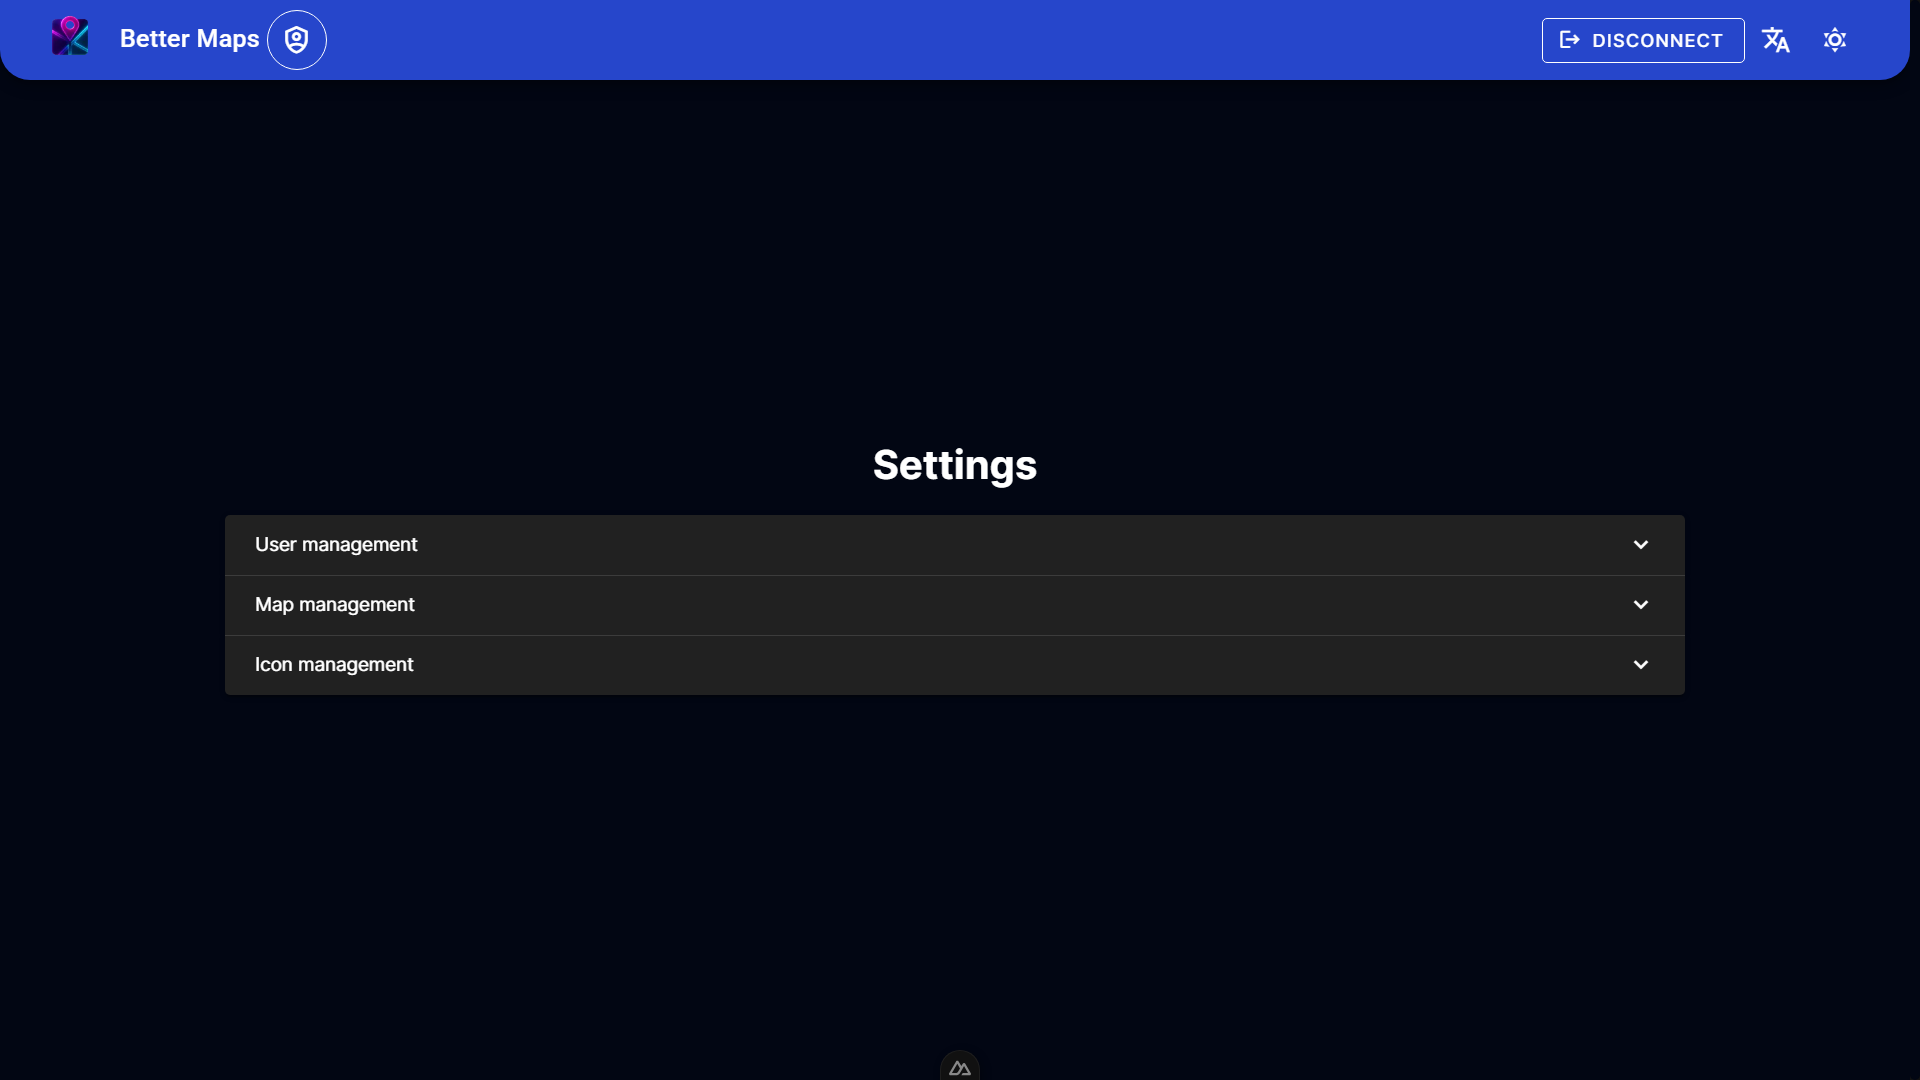
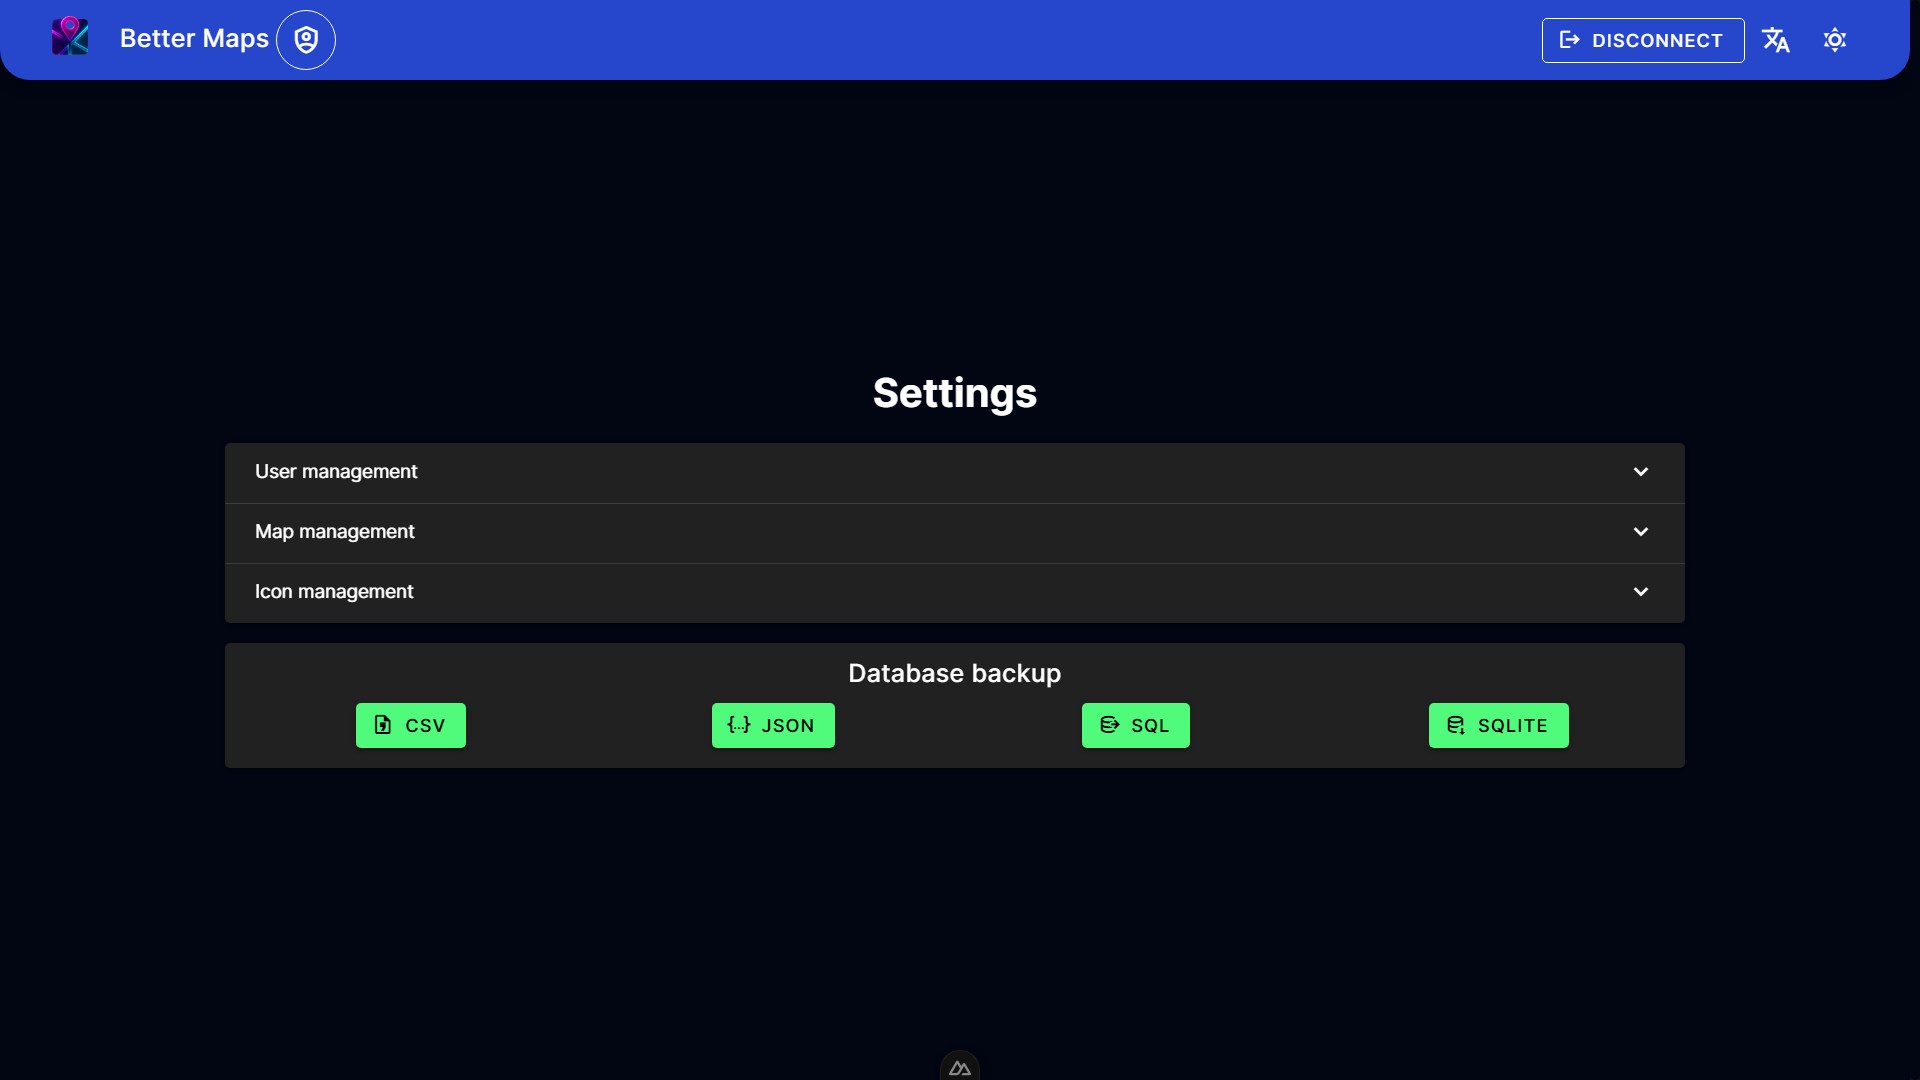
feat(1.4.0): export the db as CSV, JSON, SQL or a raw SQLite file

Changed region(s): [[0.0938, 0.3361, 0.875, 0.7333], [0.0625, 0.0306, 0.1875, 0.0611]]

diff --git a/components/Admin/Settings.vue b/components/Admin/Settings.vue
@@ -2,6 +2,7 @@
   <h1 class="mb-4">
     {{ $t("admin.title") }}
   </h1>
+
   <v-expansion-panels>
     <v-expansion-panel>
       <v-expansion-panel-title>{{ $t("admin.users.title") }}</v-expansion-panel-title>
@@ -442,6 +443,54 @@
     </v-expansion-panel>
   </v-expansion-panels>
 
+  <v-card class="mt-4">
+    <v-card-title>{{ $t('admin.backup.title') }}</v-card-title>
+    <v-card-text>
+      <v-row>
+        <v-col>
+          <v-btn
+            color="success"
+            prepend-icon="mdi-file-delimited-outline"
+            :loading="exporting"
+            @click="downloadBackup('csv')"
+          >
+            {{ $t('admin.backup.export-csv') }}
+          </v-btn>
+        </v-col>
+        <v-col>
+          <v-btn
+            color="success"
+            prepend-icon="mdi-code-json"
+            :loading="exporting"
+            @click="downloadBackup('json')"
+          >
+            {{ $t('admin.backup.export-json') }}
+          </v-btn>
+        </v-col>
+        <v-col>
+          <v-btn
+            color="success"
+            prepend-icon="mdi-database-export-outline"
+            :loading="exporting"
+            @click="downloadBackup('sql')"
+          >
+            {{ $t('admin.backup.export-sql') }}
+          </v-btn>
+        </v-col>
+        <v-col>
+          <v-btn
+            color="success"
+            prepend-icon="mdi-database-arrow-down-outline"
+            :loading="exporting"
+            @click="downloadBackup('sqlite')"
+          >
+            {{ $t('admin.backup.export-sqlite') }}
+          </v-btn>
+        </v-col>
+      </v-row>
+    </v-card-text>
+  </v-card>
+
   <v-dialog
     v-model="showDeleteDialog"
     persistent
@@ -560,6 +609,7 @@ const users = ref<User[]>([])
 const maps = ref<Map[]>([])
 const icons = ref<Icon[]>([])
 const mapUsers = ref<Record<number, { id: number, name: string }[]>>({})
+const exporting = ref(false)
 
 const showDeleteDialog = ref(false)
 const showMapDeleteDialog = ref(false)
@@ -585,7 +635,7 @@ const resetNewUser = () => {
 }
 
 const resetNewMap = () => {
-  const [lat, lng, zoom] = config.public.startingPoint.split(",").map(Number)
+  const [ lat, lng, zoom ] = config.public.startingPoint.split(",").map(Number)
   const resetValue = { name: "", start_lat: lat, start_lng: lng, start_zoom: zoom, country: config.public.country, show_transit: false }
 
   newMap.value = resetValue
@@ -639,11 +689,13 @@ const fetchData = async () => {
   } else {
     users.value = []
   }
+
   if ("maps" in mapsData.body) {
     maps.value = mapsData.body.maps
   } else {
     maps.value = []
   }
+
   if ("icons" in iconsData.body) {
     icons.value = iconsData.body.icons
   } else {
@@ -733,17 +785,20 @@ const triggerShowMapDeleteDialog = (map: Map) => {
 }
 
 const validateIcon = async (iconName: string, iconId?: number) => {
-  const okBasic = iconName.startsWith('mdi-') && iconName.length >= 5
+  const okBasic = iconName.startsWith("mdi-") && iconName.length >= 5
+
   if (!okBasic) {
     if (iconId !== undefined) {
       isValidEditIcons[iconId] = false
     } else {
       isValidNewIcon.value = false
     }
+
     return
   }
 
   let el: HTMLElement | null = null
+
   if (iconId !== undefined) {
     el = editIconRefs[iconId]
   } else {
@@ -760,17 +815,18 @@ const validateIcon = async (iconName: string, iconId?: number) => {
     } else {
       isValidNewIcon.value = false
     }
+
     return
   }
 
   await nextTick()
 
   const content = window
-    .getComputedStyle(el, '::before')
-    .getPropertyValue('content')
-    .replace(/"/g, '')
+    .getComputedStyle(el, "::before")
+    .getPropertyValue("content")
+    .replace(/"/g, "")
 
-  const valid = Boolean(content) && content !== 'none' && content !== 'normal'
+  const valid = Boolean(content) && content !== "none" && content !== "normal"
 
   if (iconId !== undefined) {
     isValidEditIcons[iconId] = valid
@@ -780,7 +836,7 @@ const validateIcon = async (iconName: string, iconId?: number) => {
 }
 
 const updateIcon = async (iconId: number, name: string, color: string, icon: string) => {
-  await $fetch(`/api/admin/icon`, {
+  await $fetch("/api/admin/icon", {
     method: "PUT",
     body: { id: iconId, name, color, icon, admin_id: store.getUser.id },
     headers: {
@@ -835,10 +891,41 @@ const triggerShowIconDeleteDialog = (icon: Icon) => {
   showIconDeleteDialog.value = true
 }
 
+const downloadBackup = async (format: "csv" | "json" | "sql" | "sqlite") => {
+  try {
+    exporting.value = true
+    const response = await $fetch("/api/admin/dbExport", {
+      params: { format, admin_id: store.getUser.id },
+      headers: { Authorization: `Bearer ${store.getUser.token}` },
+    })
+
+    const binaryString = atob(response.body)
+    const len = binaryString.length
+    const bytes = new Uint8Array(len)
+
+    for (let i = 0; i < len; i++) {
+      bytes[i] = binaryString.charCodeAt(i)
+    }
+    const blob = new Blob([ bytes ])
+
+    const url = window.URL.createObjectURL(blob)
+    const a = document.createElement("a")
+
+    a.href = url
+    a.download = response.filename
+    a.click()
+    window.URL.revokeObjectURL(url)
+  } catch (error) {
+    console.error("Export failed :", error)
+  } finally {
+    exporting.value = false
+  }
+}
+
 onMounted(async () => {
   await fetchData()
 
-  icons.value.forEach(icon => {
+  icons.value.forEach((icon) => {
     isValidEditIcons[icon.id] = true
   })
 })

diff --git a/server/api/admin/dbExport.ts b/server/api/admin/dbExport.ts
@@ -1,0 +1,91 @@
+import db from "../db"
+
+import { exec } from "node:child_process"
+import fs from "node:fs/promises"
+import path from "node:path"
+import { promisify } from "node:util"
+
+const execAsync = promisify(exec)
+
+export default defineEventHandler(async (event) => {
+  if (event.method !== "GET") {
+    throw createError({ status: 405, message: "Method not allowed" })
+  }
+
+  const { format } = await getQuery(event) as { format: "csv" | "json" | "sql" | "sqlite" }
+  const timestamp = Date.now()
+  const tempDir = path.join(process.cwd(), "temp")
+
+  await fs.mkdir(tempDir, { recursive: true })
+  const tables = [ "Map", "User", "Icon", "Point" ]
+
+  if (format === "sql") {
+    const dumpPath = path.join(tempDir, `backup_${timestamp}.sql`)
+
+    await execAsync(`sqlite3 "${db.name}" .dump > "${dumpPath}"`)
+
+    const fileContent = await fs.readFile(dumpPath)
+
+    await fs.unlink(dumpPath)
+
+    return {
+      body: fileContent.toString("base64"),
+      filename: "better-maps-backup.sql",
+    }
+  } else if (format === "sqlite") {
+    const dbCopyPath = path.join(tempDir, `backup_${timestamp}.db`)
+
+    await fs.copyFile(db.name, dbCopyPath)
+
+    const fileContent = await fs.readFile(dbCopyPath)
+
+    await fs.unlink(dbCopyPath)
+
+    return {
+      body: fileContent.toString("base64"),
+      filename: "better-maps-backup.db",
+    }
+  } else if (format === "json") {
+    const jsonResults = await Promise.all(tables.map(async (table) => {
+      const outputPath = path.join(tempDir, `${table}_${timestamp}.json`)
+
+      await execAsync(`sqlite3 -json "${db.name}" "SELECT * FROM ${table};" > "${outputPath}"`)
+
+    // read & parse
+      const content = await fs.readFile(outputPath, "utf-8")
+
+      await fs.unlink(outputPath)
+
+      return { table, data: JSON.parse(content) as unknown[] }
+    }))
+
+    const dataObj: Record<string, unknown[]> = {}
+
+    for (const { table, data } of jsonResults) {
+      dataObj[table] = data
+    }
+
+    const jsonString = JSON.stringify(dataObj, null, 2)
+
+    return {
+      body: Buffer.from(jsonString).toString("base64"),
+      filename: "better-maps-backup.json",
+    }
+  } else {
+    const csvData = await Promise.all(tables.map(async (table) => {
+      const outputPath = path.join(tempDir, `${table}_${timestamp}.csv`)
+
+      await execAsync(`sqlite3 -header -csv "${db.name}" "SELECT * FROM ${table};" > "${outputPath}"`)
+      const content = await fs.readFile(outputPath, "utf-8")
+
+      await fs.unlink(outputPath)
+
+      return `-- ${table} --\n${content}`
+    }))
+
+    return {
+      body: Buffer.from(csvData.join("\n")).toString("base64"),
+      filename: "better-maps-backup.csv",
+    }
+  }
+})

diff --git a/components/Map/Pin.vue b/components/Map/Pin.vue
@@ -94,8 +94,8 @@ const dummyPin: Pin = {
 const props = defineProps<Props>()
 const pins = ref<Pin[]>([])
 const filteredPins = computed(() => [
-  ...pins.value.filter(p => p.visible),
-  dummyPin
+  ...pins.value.filter((p) => p.visible),
+  dummyPin,
 ])
 
 const darkBackgroundColor = ref(theme.computedThemes.value.dark.colors.background)

diff --git a/components/Map/PinsList.vue b/components/Map/PinsList.vue
@@ -9,9 +9,9 @@
       </v-expansion-panel-title>
       <v-expansion-panel-text>
         <v-list
-          :class="{ 
+          :class="{
             'scrollable-list': smAndUp,
-            'px-0': smAndUp 
+            'px-0': smAndUp
           }"
         >
           <v-list-item

diff --git a/README.md b/README.md
@@ -32,7 +32,7 @@ You will then land in the main screen (the map) :
 To add a new point, go in the search bar and type the name of the place you want to add :
 ![Search bar](./docs/search.png)
 > [!TIP]  
-> If results don't appear, it can be either because there's a small problem in the search (try to untype/retype a character) or because of the aggressive security, try to log out, reload and log back in.
+> If results don't appear, it's probably because there's a small problem in the search (try to untype/retype a character).
   
 You can either search for a specific place, or just enter an address.  
 > [!TIP]  
@@ -122,6 +122,8 @@ docker run -d -p 27400:27400 --env-file .env -v better_maps_db:/app/db --name be
 ## In-app settings
 Every admin can access the settings page by clicking on the account shield icon in the navigation bar :
 ![Admin settings](./docs/admin_settings.png)
+
+You can dump the database, as CSV, JSON, SQL or the raw SQLite file.
 
 You will be able to edit existing users :
 ![Edit user](./docs/user_management.png)
